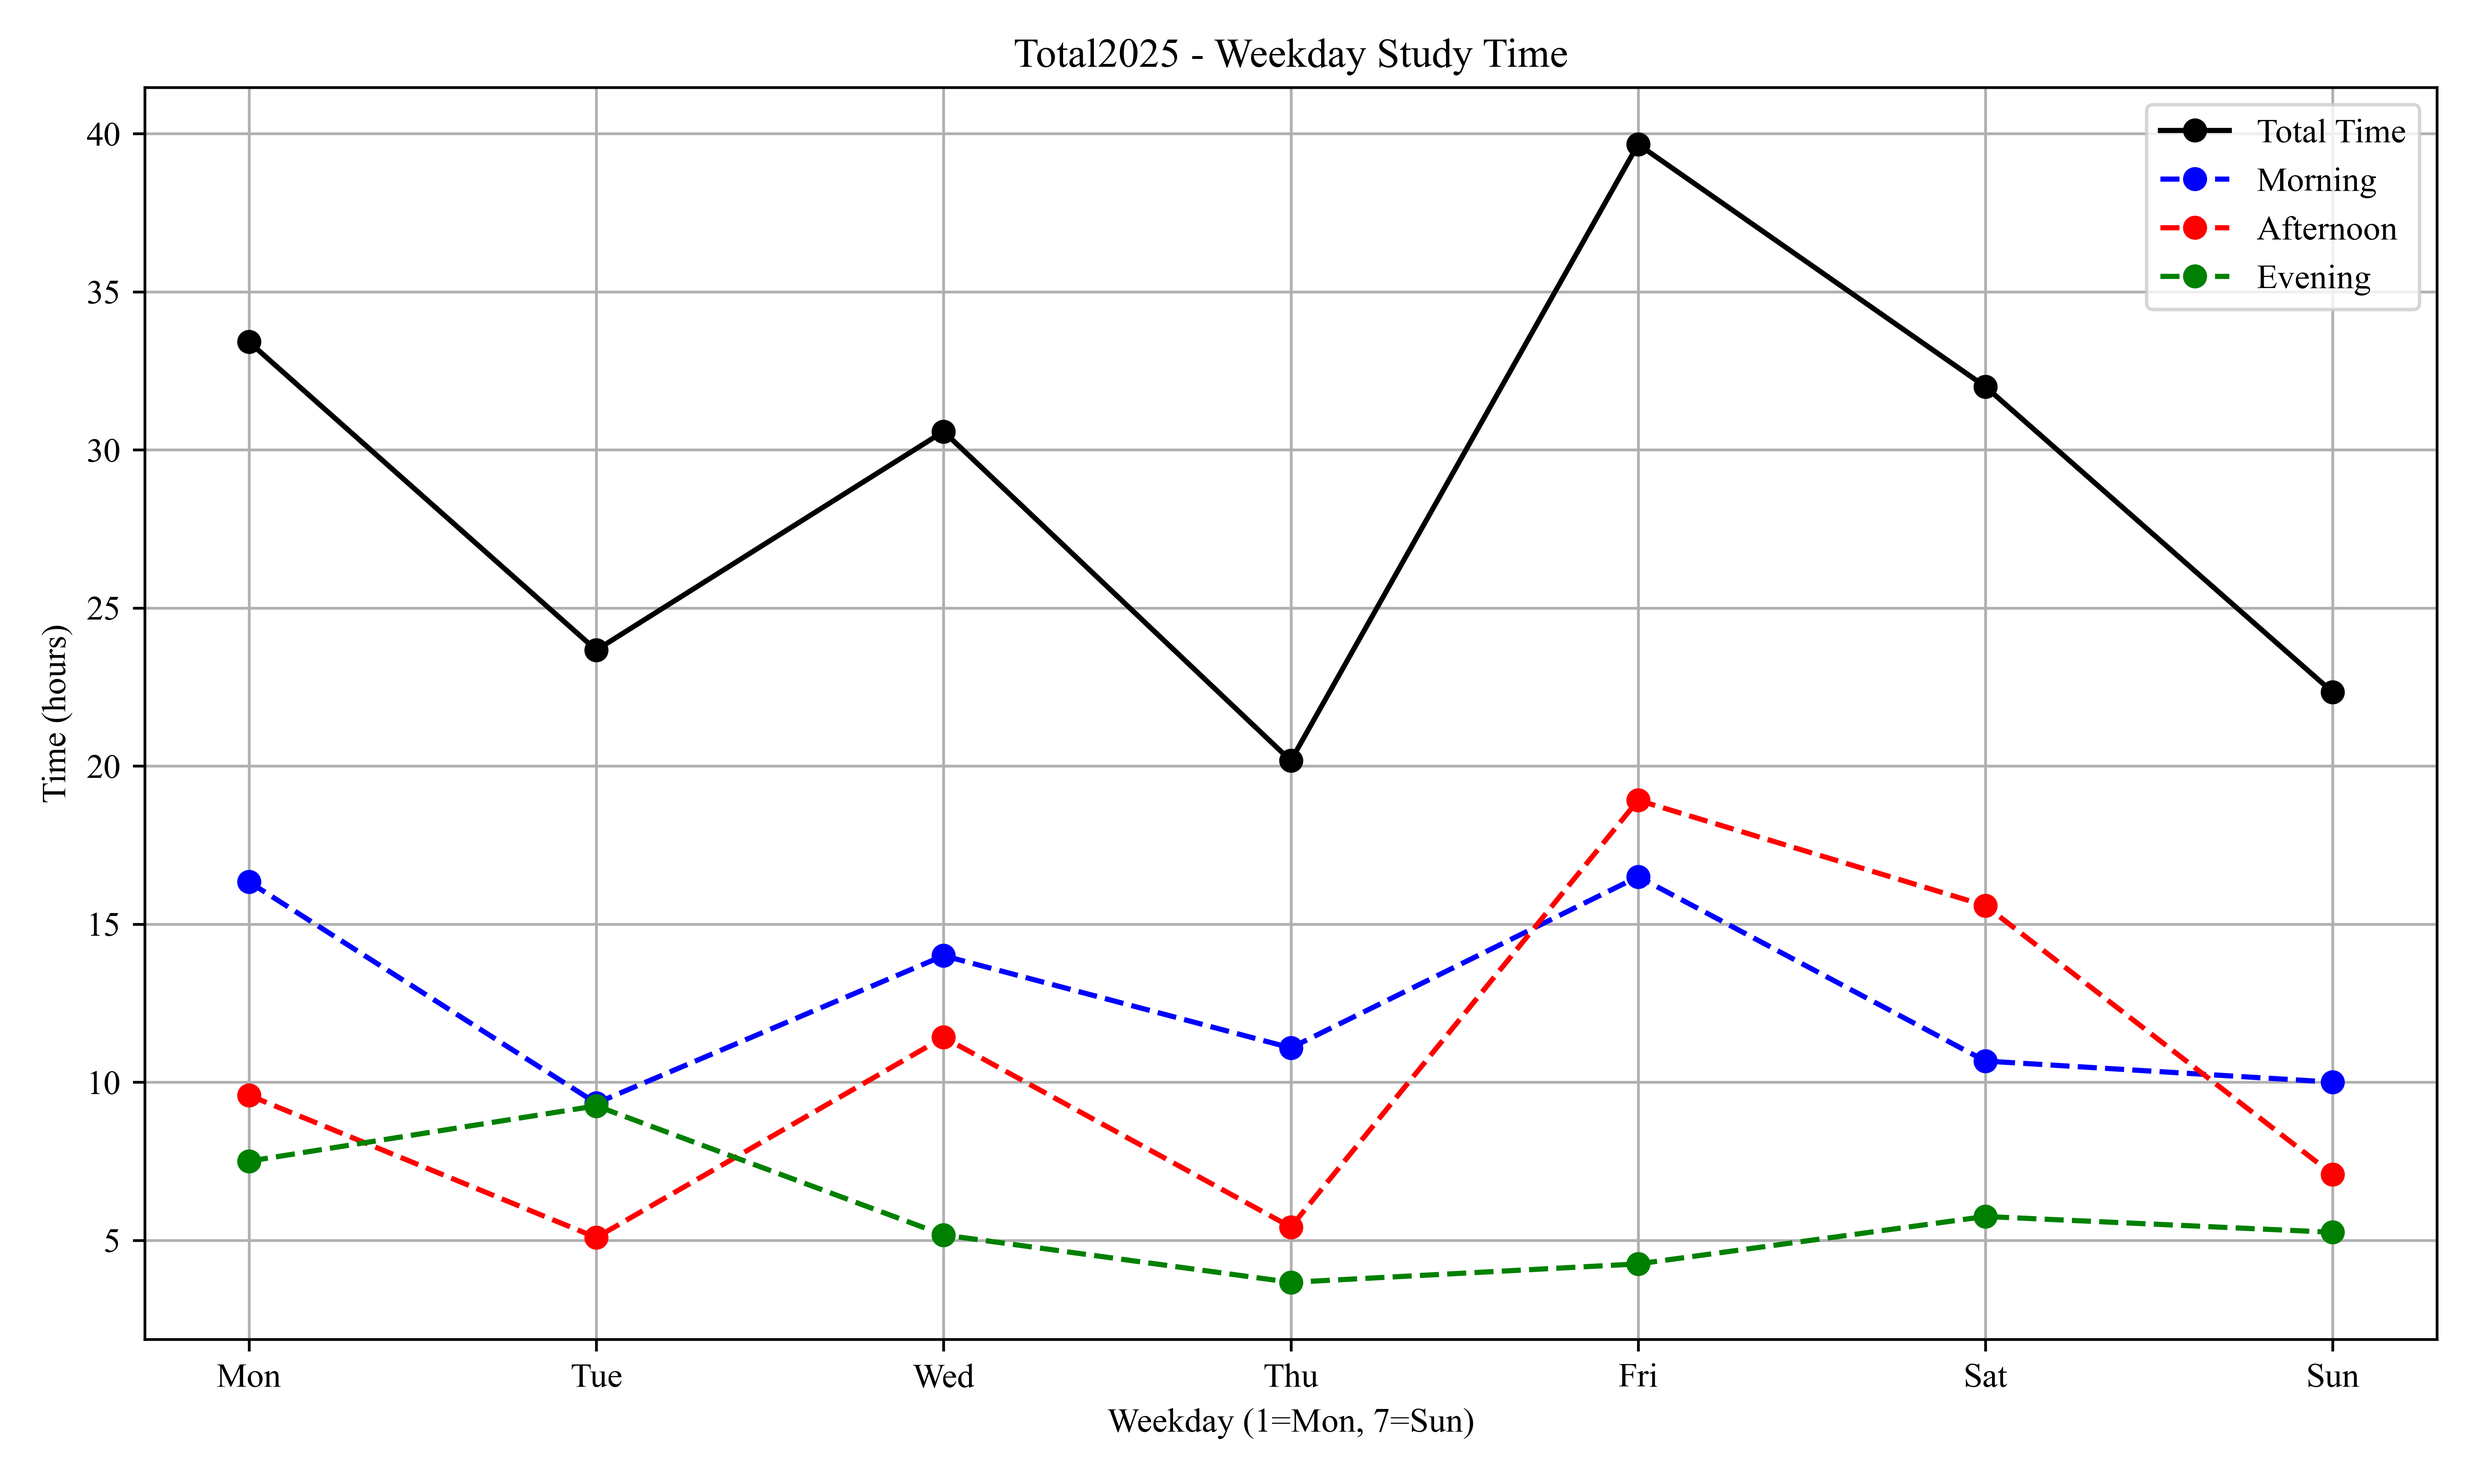
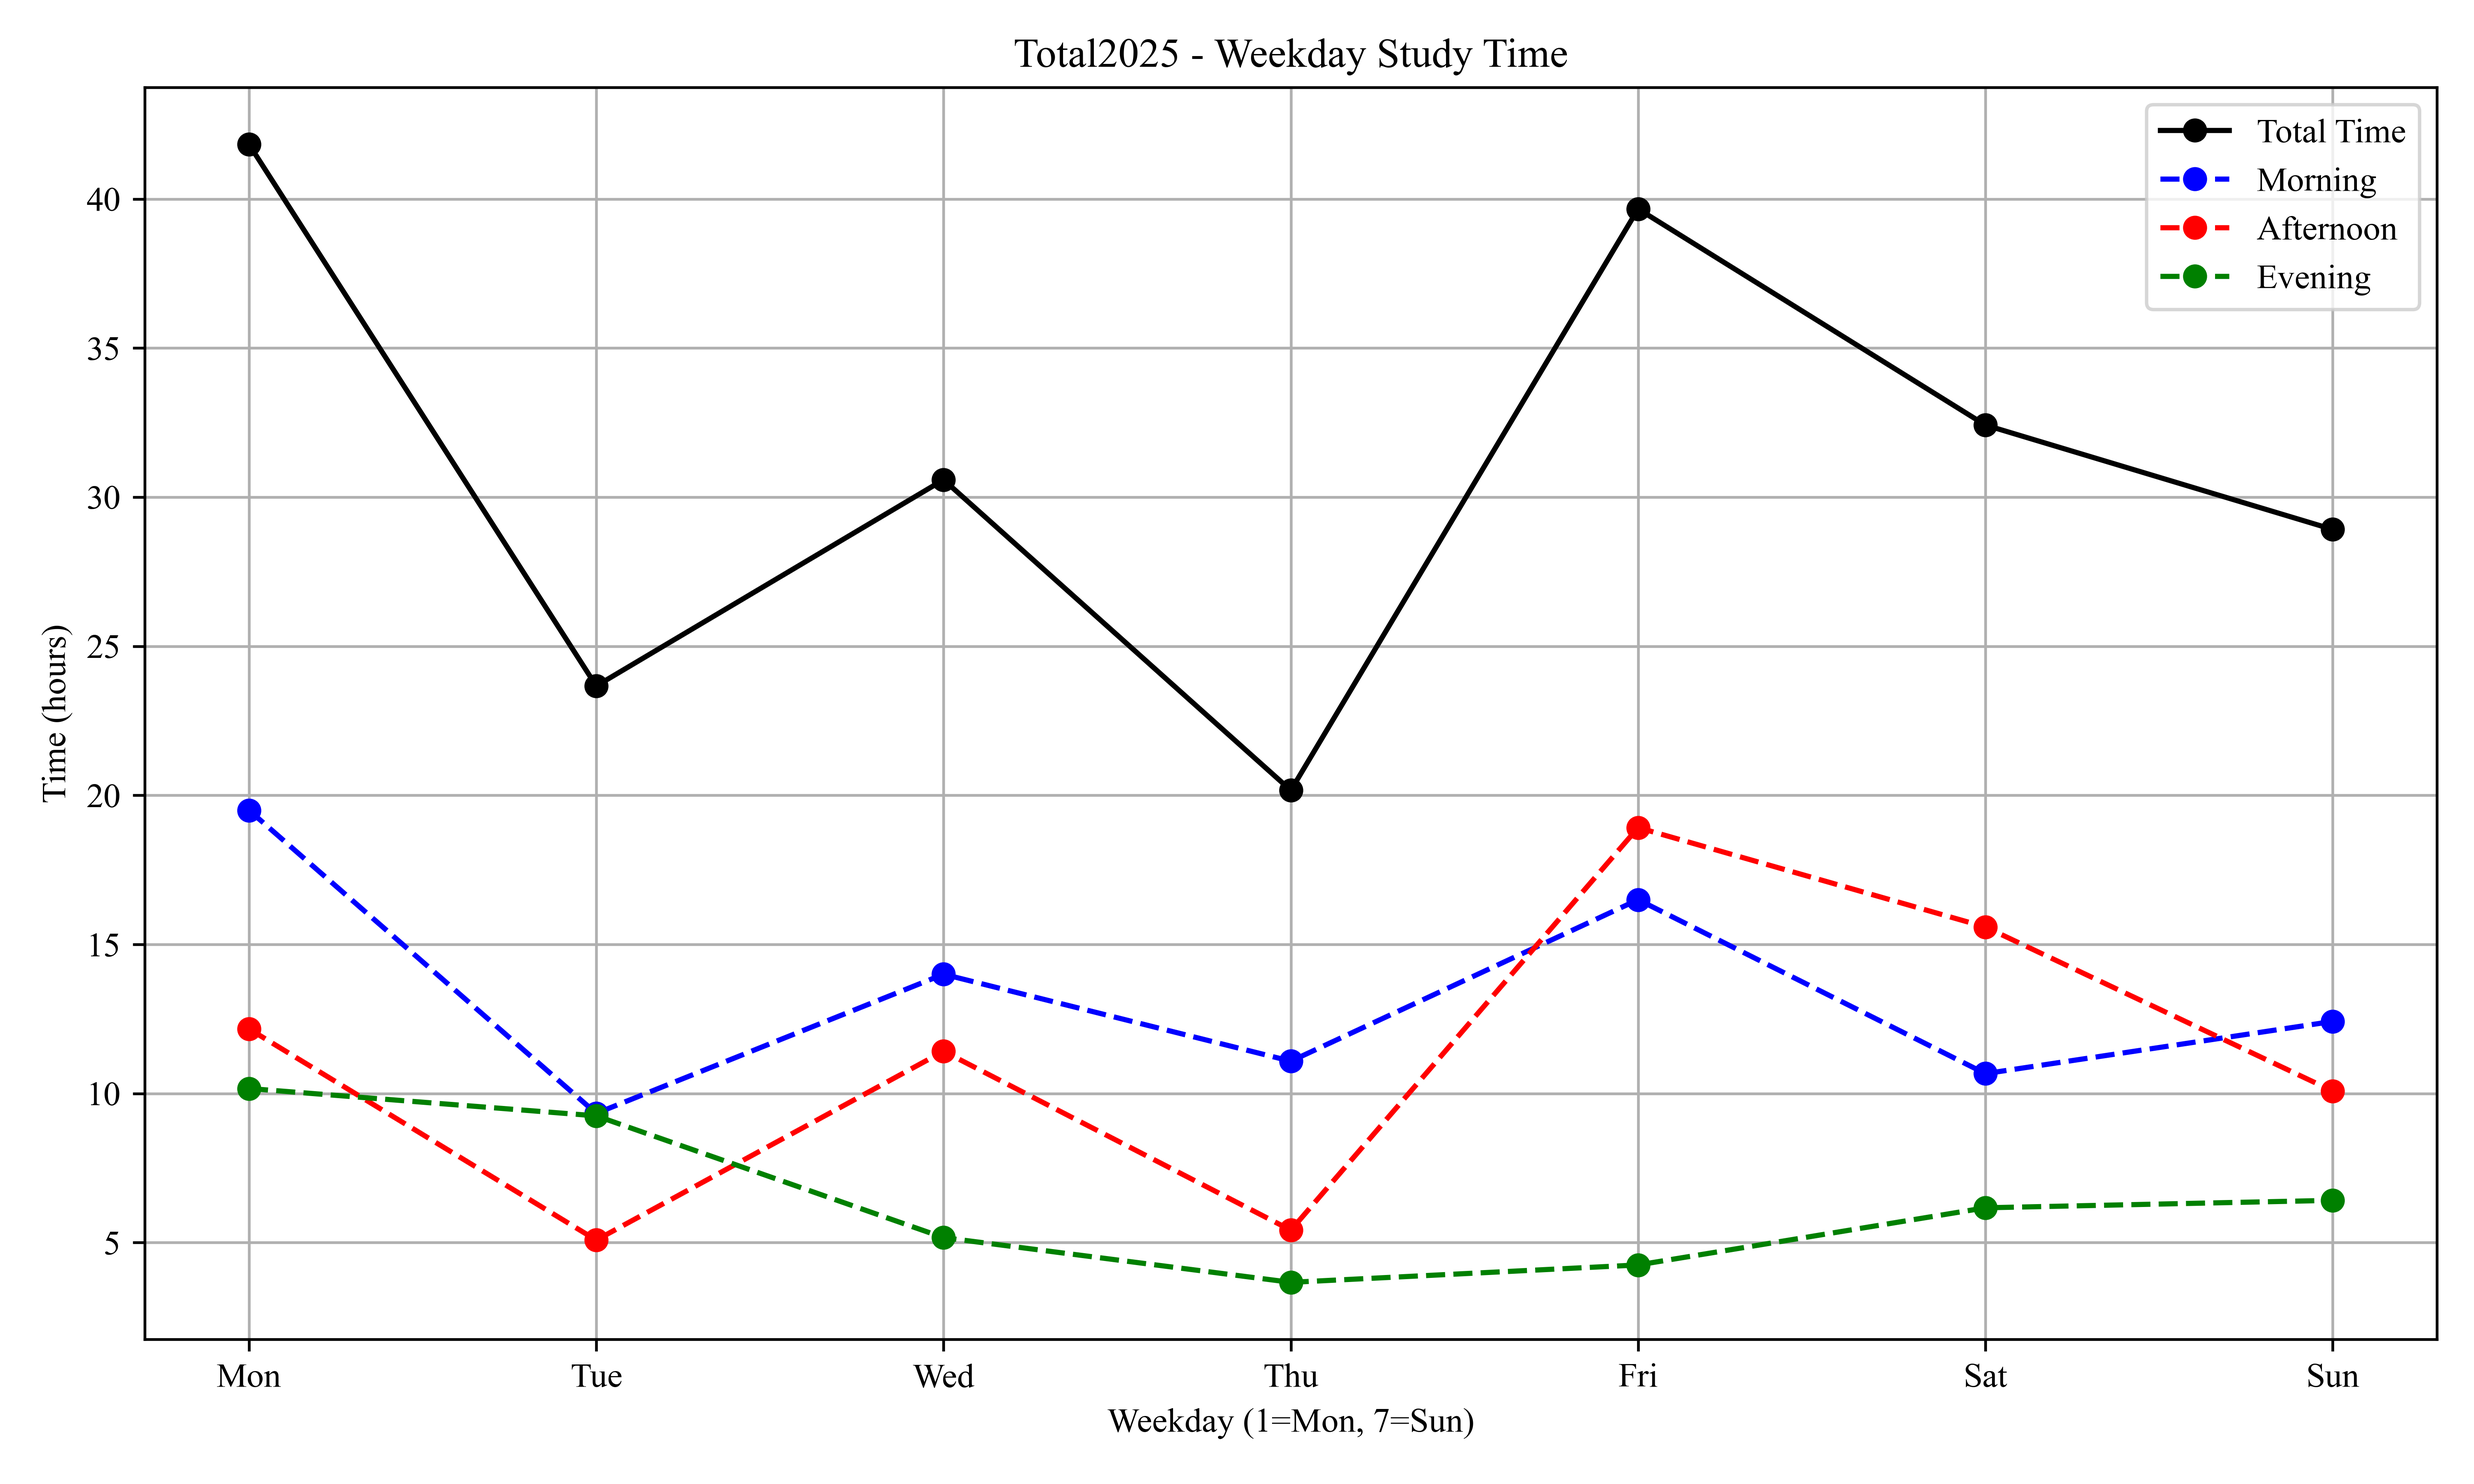
更新2.24

diff --git a/data/学习状态.md b/data/学习状态.md
@@ -61,13 +61,15 @@
 | 2.19 | 概率论前半 | 5 | 3 | 3 | 4 | 4h47 | 3h22 | 我怀疑是基础题状态就好，本来上午状态很好的，下午开始写提高篇，结果就很多不会了，然后就寄寄。晚上去跑步了两圈，感觉状态好了一点 |
 | 2.20 | 概率论后半, dsCh2前半 | 5 | 1 | 2 | 3 |  |  | 状态直接掉完了，完全不想学习，而且肚子又疼了。。总不能真是雨天的原因吧 |
 | 2.21 | 高数Ch1,2, dsCh2后半 | 5 | 3 | 3 | 3 |  |  | 稍微调整过来了，但是学习时长不是很长 |
-| 2.22 | 高数Ch3,4, dsCh3前半 |  |  |  |  |  |  |  |
-| 2.23 | 高数Ch5,6, dsCh3后半 |  |  |  |  |  |  |  |
-| 2.24 | 高数Ch7,8 |  |  |  |  |  |  |  |
+| 2.22 | 高数Ch3,4, dsCh3前半 | 3 | 4 | 2 | 4 |  |  | 很开心啊，模考到了119分。All the sweat and toil shall blossom into success. |
+| 2.23 | 高数Ch5,6, dsCh3后半 | 2 | 3 | 3 | 3 |  |  | 感觉不是很想学，还是状态一般般。另外发现计划没有考虑周六模考导致很难完成，而且深度学习这个星期也没怎么学 |
+| 2.24 | 高数Ch7,8 | 3 | 4 | 3 | 2 |  |  | 这完全写不完啊，今天写了快九个小时，我的妈啊这个积分算死人 |
 | 2.25 | 线代前半, dsCh4 |  |  |  |  |  |  |  |
 | 2.26 | 线代后半 |  |  |  |  |  |  |  |
 | 2.27 | 概率论前半, dsCh5前半 |  |  |  |  |  |  |  |
-| 2.28 | 概率论后半, dsCh5后半 |  |  |  |  |  |  |  |
+| 2.28 | 概率论后半 |  |  |  |  |  |  |  |
+| 3.1 | 零基础篇+函数前半, dsCh5后半 |  |  |  |  |  |  |  |
+| 3.2 | 函数后半, dsCh6前半 |  |  |  |  |  |  |  |
 
 
 </div>

diff --git a/data/书籍购买.md b/data/书籍购买.md
@@ -52,6 +52,7 @@
 | 余炳森1000 | 2023 | - | 6 | - |
 | 新文道张同斌660+360+360 | 2025 | - | 10 | - |
 | 张天德概率论600 | 2023 | - | 16 | - |
+| 越过211刷到985 | - | - | 30 | - |
 | 学府600题 | 2017 | - | 20 | 二手 |
 
 
@@ -63,6 +64,7 @@
 | 名称 | 年份 | 一刷时间 | 价格 | 备注 |
 | --- | --- | --- | --- | --- |
 | 余炳森5套 | 2024 | - | 15 | - |
+| 张宇真题87-25年 | 2026 | - | 44 | - |
 | 张宇8套 | 2024 | - | 8 | - |
 | 李永乐6+3+临阵磨枪 | 2025 | - | 17 | - |
 | 李永乐6+3+临阵磨枪 | 2024 | - | 7 | - |
@@ -86,8 +88,13 @@
 
 | 名称 | 版次 | 一刷时间 | 价格 | 备注 |
 | --- | --- | --- | --- | --- |
-| 中公408 | 2025 | - | 33 | - |
-| 王道408 | 2025 | - | 160 | - |
+| 中公 | 2025 | - | 33 | - |
+| 王道 | 2026 | - | 160 | - |
+| 竟成 | 2026 | - | 120 | - |
+| 刘财政 | 2026 | - | 82 | - |
+| 抓码精炼1000题 | - | - | 64 | - |
+| 深入浅出计算机网络 | - | - | 37 | - |
+| 白话计算机网络 | - | - | 26 | - |
 | 模式识别 | 第三版 | - | 25 | 盗版 |
 
 暂未购买的：
@@ -106,7 +113,10 @@
 | 新东方阅读100基础+强化 | 2025 | - | 21 | - |
 | 新东方报刊基础 | 2025 | - | 19 | - |
 | 新东方完型阅读B | 2025 | - | 17 | - |
+| 新东方真题手译本 | 2025 | - | 7 | - |
 | 华研基础阅读150 | 2025 | - | 25 | - |
 | 华研基础 | 2025 | - | 30 | - |
 | 来川基础 | 2024 | - | 39 | - |
+| 田静句句真研 | 2026 | - | 45 | - |
+| 大英赛c类真题 | - | - | 13 | - |
 

diff --git a/data/学习时长.md b/data/学习时长.md
@@ -178,6 +178,9 @@
 | 2.19 | 14:35-15:50, 17:30-19:15 | |
 | 2.20 | 17:30-18:10 | |
 | 2.21 | 14:10-17:00, 17:30-18:45 | |
+| 2.22 | 17:35-18:00 | |
+| 2.23 | 10:20-11:40, 14:10-16:20, 17:45-18:55 | |
+| 2.24 | 8:30-11:40, 14:00-15:35, 17:20-20:10 | |
 
 </div>
 
@@ -198,6 +201,7 @@
 | 2.18 | 9:00-11:00 | |
 | 2.20 | 9:30-11:15 | |
 | 2.21 | 9:00-10:30 | |
+| 2.23 | 9:15-10:20 | |
 
 </div>
 
@@ -233,6 +237,8 @@
 | 2.19 | 16:00-16:50 | |
 | 2.20 | 11:15-11:35, 16:20-16:45 | |
 | 2.21 | 10:40-11:40 | |
+| 2.23 | 16:20-17:10 | |
+| 2.24 | 16:00-16:50 | |
 
 
 </div>
